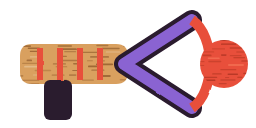
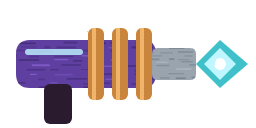
S21 vira Laço de Energia: esfera elétrica, algemas e raio entre os robôs
- emissor com bobinas e cristal; a esfera sai do cristal e voa reto (sem a origem pular para a mão)
- preso: algema de energia girando em cada robô e raio zigue-zague (frouxo ondula, esticado engrossa e clareia)
- soltou: descarga nas duas pontas

Claude-Session: https://claude.ai/code/session_01HthQDxcvzNZhHrAFP847xL

diff --git a/art/src/efeitos/spells.py b/art/src/efeitos/spells.py
@@ -360,15 +360,15 @@ def s08_gancho():
 
 
 def s21_laco():
-    """Laço Elástico: lançador em forquilha com elástico vermelho enrolado e bola de ventosa — 128x64."""
-    b = [shape("s21h", rect_d(10, 22, 54, 20, 6), "#d9a05e", 107, (8, 20, 66, 44), k=1.6, dark="#8f5a2c")]
-    b.append(f'<rect x="22" y="40" width="14" height="20" rx="3" fill="{INK}"/>')
-    b.append(f'<path d="M62,32 L96,10 M62,32 L96,54" stroke="{INK}" stroke-width="10" stroke-linecap="round"/>')
-    b.append(f'<path d="M62,32 L96,10 M62,32 L96,54" stroke="#8a63d2" stroke-width="6" stroke-linecap="round"/>')
-    b.append('<path d="M96,10 C108,18 108,46 96,54" stroke="#e8503a" stroke-width="5" fill="none"/>')
-    b.append(shape("s21v", ellipse_d(112, 32, 12, 12), "#e8503a", 108, (100, 20, 124, 44), k=1.4, dark="#a8301f", light="#ff8a6a"))
-    for x in (20, 30, 40, 50):
-        b.append(f'<path d="M{x},24 V40" stroke="#e8503a" stroke-width="3"/>')
+    """Laço de Energia: emissor roxo com 3 bobinas de cobre e cristal ciano aceso na ponta — 128x64."""
+    b = [shape("s21h", rect_d(8, 20, 70, 24, 7), "#5e3fa0", 107, (6, 18, 80, 46), k=1.8, dark="#3d2870", light="#8a63d2")]
+    b.append(f'<rect x="22" y="42" width="14" height="20" rx="3" fill="{INK}"/>')
+    for x in (44, 56, 68):
+        b.append(f'<rect x="{x}" y="14" width="8" height="36" rx="3" fill="#c9853a"/><rect x="{x + 2}" y="14" width="2" height="36" fill="#f0b46a"/>')
+    b.append(shape("s21p", rect_d(76, 24, 22, 16, 3), METAL, 108, (74, 22, 100, 42), k=1.4, dark=METAL_D))
+    b.append('<polygon points="98,32 110,20 124,32 110,44" fill="#3fc1c9"/><polygon points="102,32 110,24 118,32 110,40" fill="#bff6ff"/>')
+    b.append('<circle cx="110" cy="32" r="3" fill="#ffffff"/>')
+    b.append('<path d="M14,26 H40" stroke="#bff6ff" stroke-width="3" stroke-linecap="round" opacity="0.8"/>')
     return b
 
 

diff --git a/docs/ESTADO.md b/docs/ESTADO.md
@@ -101,8 +101,8 @@ Reforma grande em andamento no `teste-2`, pedida pelo usuário em 2026-11-23, ne
    desdobrando sobre o vão, prévia), S27 Controle Remoto (derruba a viga pendurada mais perto; acerta quem está embaixo),
    S28 Escudo de Solda (placa soldada que bloqueia tiros, 3 acertos). Empurrões suaves via `ext_v` → `push_vx`.
    **Revisão 3 (2026-11-24) aplicada:** gancho puxa QUASE TUDO (robô vem arrastado até você, caixa de spell e bomba vêm
-   voando para a mão, estrutura puxa você), corrente de elos e garra que abre/fecha; laço com ventosa de borracha, elástico
-   com barriga quando frouxo e vibrando quando esticado, estalo ao soltar; muro de solda em 3 painéis que encaixam um por um
+   voando para a mão, estrutura puxa você), corrente de elos e garra que abre/fecha; laço virou LAÇO DE ENERGIA (esfera elétrica, algemas
+   de energia e raio entre os robôs; emissor com bobinas — o usuário recusou o visual de borracha); muro de solda em 3 painéis que encaixam um por um
    (cordão de solda esfriando, maçarico com faíscas, racha e cai em pedaços; teto abre do meio para os lados); ventilador com
    anéis de pressão, sucata voando, hélice girando, dono escorregando e rival tremulando; ponte encosta na altura exata do
    chão (dá para andar sem pular); controle remoto mostra receptor piscando em cada viga + dica; no Laboratório avisa para
